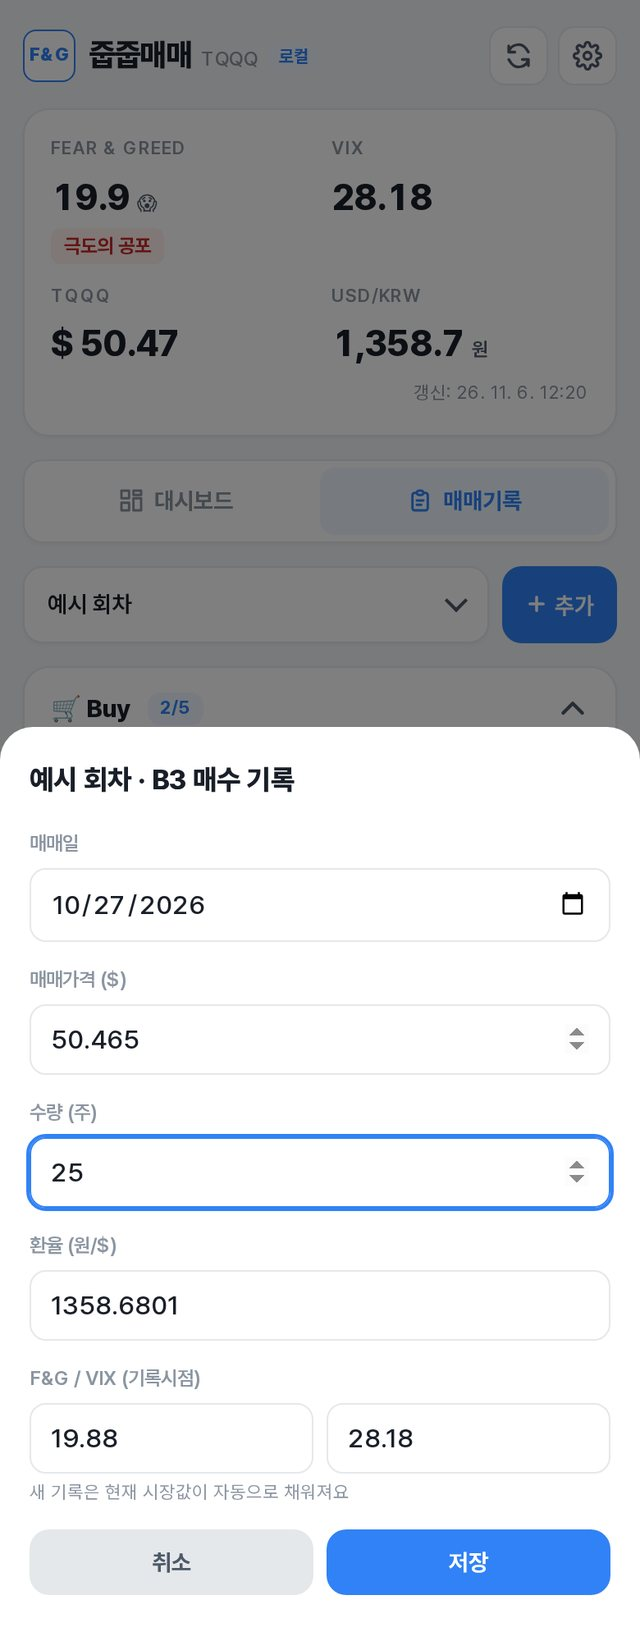
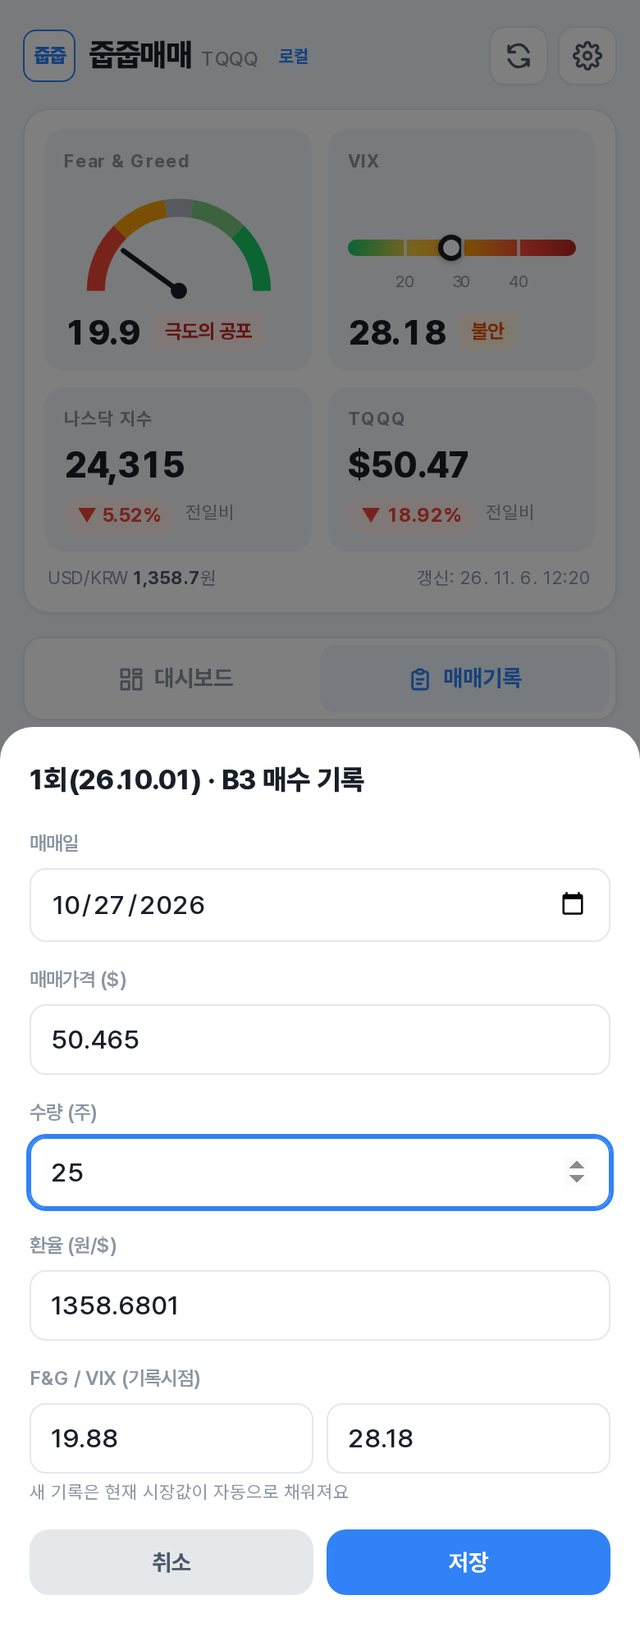
줍줍매매 소개 페이지: 개편된 화면에 맞춰 문구와 스크린샷 갱신

diff --git a/CLAUDE.md b/CLAUDE.md
@@ -97,7 +97,7 @@ GitHub Pages(Jekyll)로 운영하는 투자 기록 사이트다. 게시판은 `i
 - 게시판 설정은 `_data/sections.yml`이고(상단 메뉴 순서도 이 순서), 목록 페이지는 `ipo.html`, `infinity.html`, `study.html`, 전체 글은 `posts.html`이다.
 - 상단 메뉴는 `홈 | 공모주 | 무한매수 | 공부요약 | 줍줍매매 | 마켓시그널 | 문의` 순서다. 게시판 이름은 `sections.yml`의 `nav`(짧은 이름)로, 줍줍매매·마켓시그널·문의는 `_layouts/default.html`에 직접 들어 있다. 메뉴 이름을 길게 바꾸면 폰에서 두 줄로 넘어가므로 바꿀 때마다 360px에서 확인한다.
 - **마켓시그널**(`market.html`, `/market/`)은 글이 아니라 별도 페이지다. 별도 저장소 `mzmzkgu/marketTraffic`가 만드는 `/marketTraffic/signals.json`(약 1시간마다 갱신)을 브라우저에서 읽어 카드로 그린다. `marketTraffic` 저장소와 `signals.json` 구조(`assets.<키>.driver/signal/price/high_365d/mdd_pct/fg_score/ma120/premium_pct` 등)를 바꾸면 이 페이지도 같이 고친다. 신호 기준 설명은 그 저장소의 `backend/market_signal_updater.py`와 맞춘다. 비트코인은 `driver: trend_ma120`(현재가가 자기 120일선 위면 매수, 아래면 매도, 공포탐욕은 참고용)이고, 리플은 `driver: follow_asset`(비트코인 신호를 그대로 따라가며 `ref_price`·`ref_ma120`은 비트코인 값)이다. 미국채 10년물(`us10y`, `driver: yield_level`)은 금리 5.0% 이상이면 매수, 그 외 관망이고 매도 신호는 없다. 데이터에 없는 자산은 카드를 그리지 않는다. 카드를 누르면 `market.html`의 `LINKS`에 있는 시세 사이트(네이버 증권, 김프는 kimp.co.kr)가 새 탭으로 열린다. 카드 배치는 `market.html`의 `GROUPS`(금융자산: 나스닥·미국채10년물·달러·엔화 / 기타자산: 금·김프·비트코인·리플, 각 2열)에서 바꾼다.
-- **줍줍매매**(`jupjup.html`, `/jupjup/`)는 글 게시판이 아니라 도구 소개 페이지다. 도구 본체는 별도 저장소 `mzmzkgu/buytheDip`(`/buytheDip/`, 정적 앱, 기록은 기본적으로 브라우저 localStorage에 저장하고 옵션에서 본인 구글 시트(Apps Script 웹앱 주소)로 바꿀 수 있다. 시트 모드에선 입력 기록이 사용자의 시트로 전송되므로 개인정보 방침(`privacy.md` 2항)의 설명과 맞춰 둔다)이고, 이 페이지의 **매매 규칙 표는 그 저장소 `app.js`의 `BUY_DEF`·`SELL_DEF`와 같아야 한다.** 규칙이나 화면이 바뀌면 표와 스크린샷(`assets/images/buythedip/`, 예시 데이터로 찍은 것)도 같이 고친다. 홈의 도구 카드에도 들어 있다. 이 앱은 시세를 `/marketTraffic/signals.json`의 `assets.nasdaq.fg_score`·`fg_rating`, `assets.vix.vix`, `assets.usdkrw.price`에서 읽고 TQQQ 가격만 무한매수와 같은 Cloudflare Worker(`/price?ticker=TQQQ`)에서 받으므로, `marketTraffic`의 `signals.json` 구조를 바꾸면 `buytheDip`의 `fetchMarket()`도 같이 고친다.
+- **줍줍매매**(`jupjup.html`, `/jupjup/`)는 글 게시판이 아니라 도구 소개 페이지다. 도구 본체는 별도 저장소 `mzmzkgu/buytheDip`(`/buytheDip/`, 정적 앱, 기록은 기본적으로 브라우저 localStorage에 저장하고 옵션에서 본인 구글 시트(Apps Script 웹앱 주소)로 바꿀 수 있다. 시트 모드에선 입력 기록이 사용자의 시트로 전송되므로 개인정보 방침(`privacy.md` 2항)의 설명과 맞춰 둔다)이고, 이 페이지의 **매매 규칙 표는 그 저장소 `app.js`의 `BUY_DEF`·`SELL_DEF`와 같아야 한다.** 규칙이나 화면이 바뀌면 표와 스크린샷(`assets/images/buythedip/`, 예시 데이터로 찍은 것)도 같이 고친다. 홈의 도구 카드에도 들어 있다. 이 앱은 시세를 `/marketTraffic/signals.json`의 `assets.nasdaq.fg_score`·`fg_rating`·`price`·`change_pct`(전일비, 나스닥 지수 카드), `assets.vix.vix`·`vix_state`, `assets.usdkrw.price`에서 읽고 TQQQ 가격만 무한매수와 같은 Cloudflare Worker(`/price?ticker=TQQQ`)에서 받으므로, `marketTraffic`의 `signals.json` 구조를 바꾸면 `buytheDip`의 `fetchMarket()`도 같이 고친다.
 - 소개와 문의는 `contact.md`(`/contact/`) 한 페이지로 합쳤다. `about.html`은 옛 `/about/` 주소를 `/contact/`로 보내는 이동용 파일이니 지우지 않는다.
 - 새 게시판을 만들 때는 `_data/sections.yml`에 한 줄과 목록 페이지 하나를 추가하고, 360px 폰에서 상단 메뉴가 한 줄에 들어가는지 확인한다.
 - 스타일은 `assets/style.css` 하나다. **CSS 주석(`/* */`)을 열면 반드시 닫는다.** (닫지 않으면 아래 스타일이 통째로 무시된다.)
